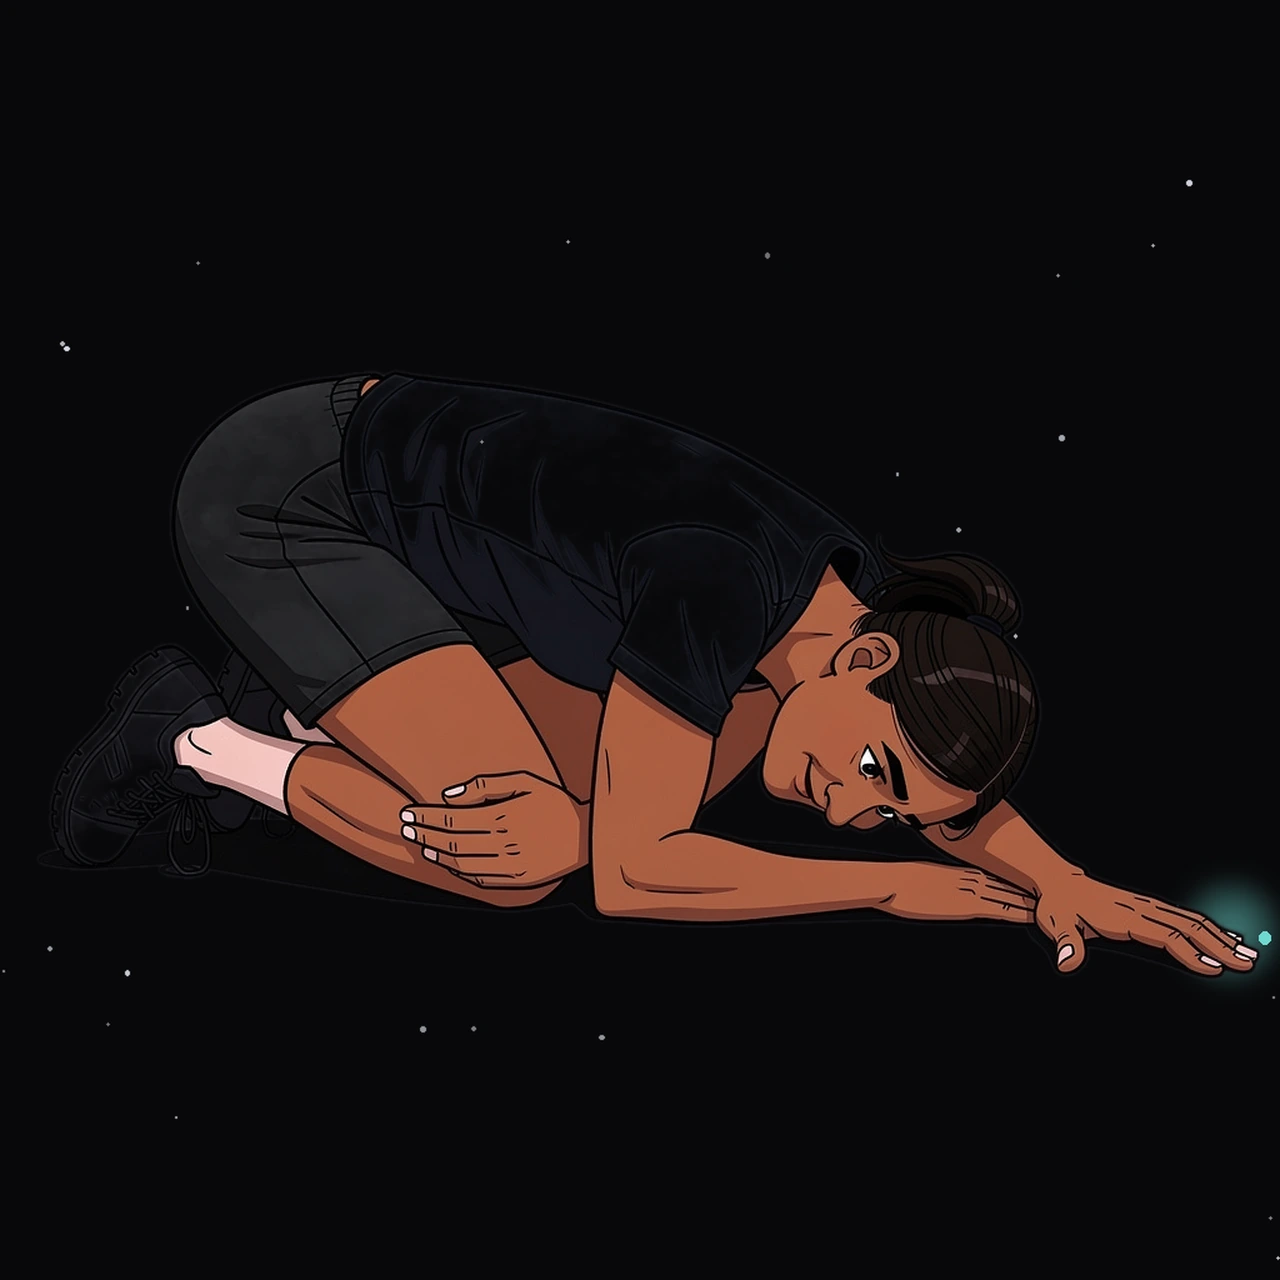
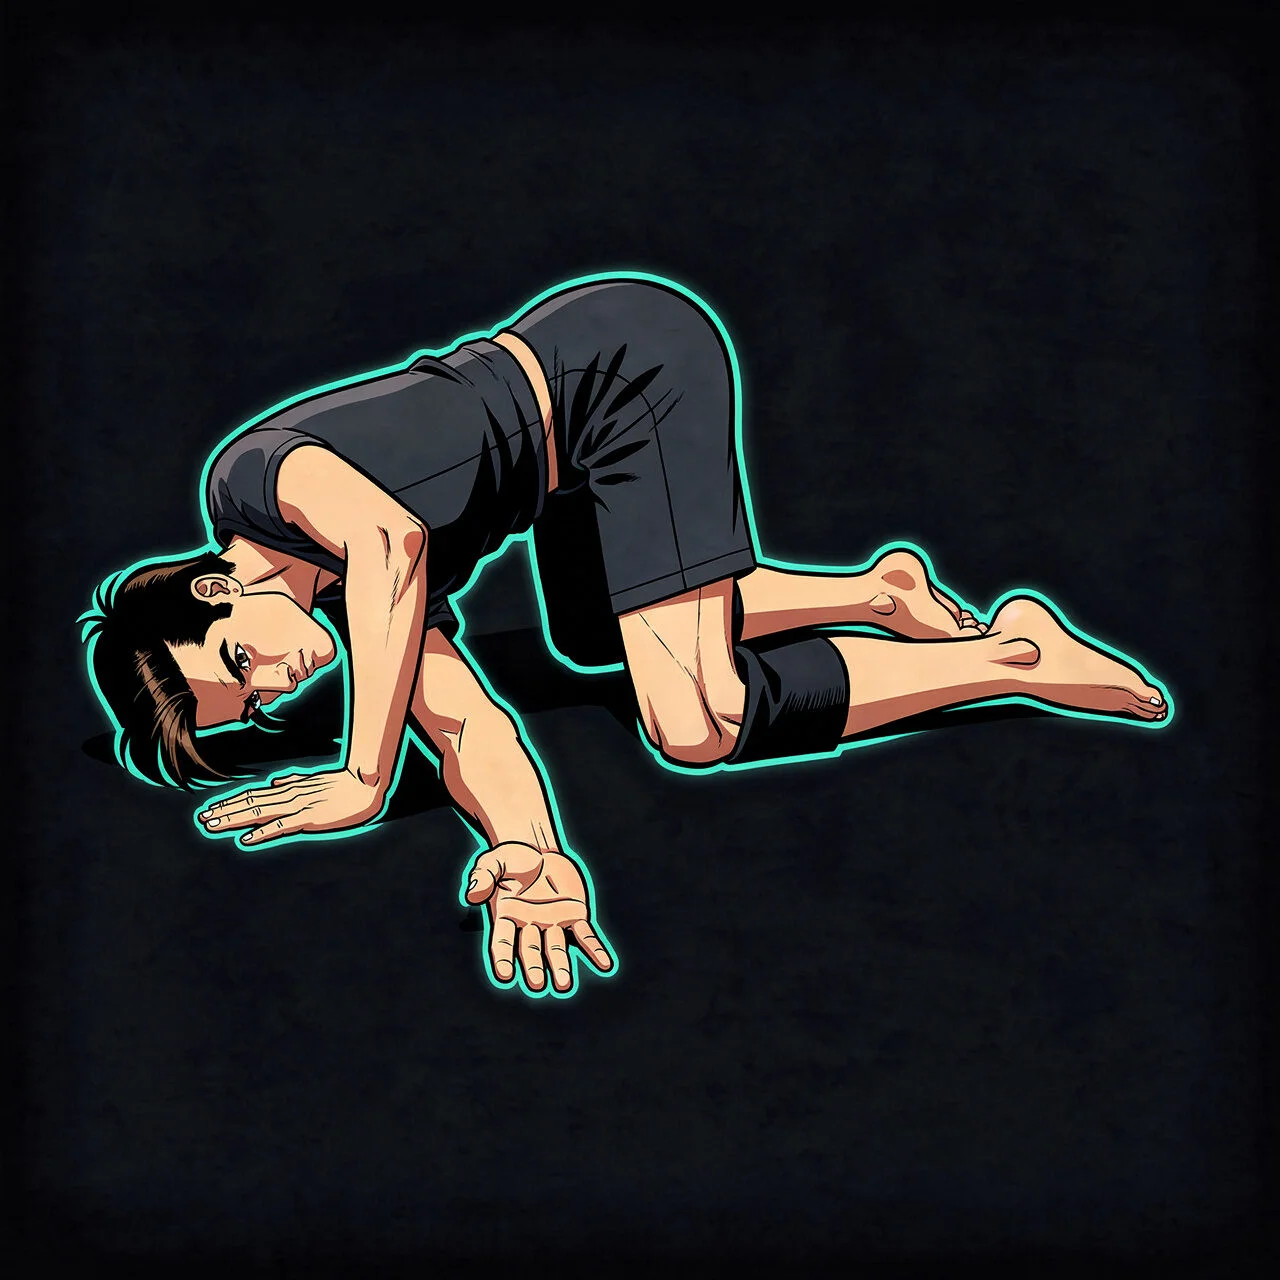
Draw thread the needle from a photograph, and send the references the loop chose
The old picture had three arms. The new one is redrawn from a photograph of the maintainer cut
out of its background (rembg), face blurred, sent with an edit prompt that keeps the body:
FLUX copies a photo's pose almost exactly, which no mannequin managed for a threaded arm.

Fixes a bug that made several earlier runs meaningless: a stale `reference: False` on
thread_the_needle and russian_twist won over every reference made for them later, so their 3D
and photo attempts went out as text only, and the judges blamed references the model never saw.
A reference made for the slug on purpose now comes first, and each run prints what it sent.

Changed region(s): [[0.0625, 0.1875, 1.0, 0.8125]]

diff --git a/scripts/art-loop.py b/scripts/art-loop.py
@@ -63,6 +63,19 @@ TRACED_PREAMBLE = (
     "in it that the description below does not name is left out."
 )
 
+# For a real photo cut out of its background (`<slug>.cutout.png`, face blurred): colour and
+# volume say which arm passes under which, where the edge tracing of the same photo read as a
+# plain all-fours (thread_the_needle, a8).
+# Phrased as an edit of image 1, not as a new picture "in this pose": asked to draw from it, FLUX
+# drew its favourite all-fours twice (a8, a9); asked to redraw it, it keeps the body's geometry.
+PHOTO_PREAMBLE = (
+    "Redraw image 1 as an illustration. Keep the person's body exactly as it is in image 1: "
+    "every limb in the same place, the same joint angles, the same parts touching the floor, the "
+    "same camera angle and framing. Change only how it is drawn and dressed: replace the "
+    "photograph with the style described below, replace the clothes, remove the glasses, the "
+    "watch and the patch of floor, and give the person a new face."
+)
+
 # For a 3D mannequin render (see `render3d`): volume and a cast shadow carry the depth that a flat
 # stick figure lost on every floor pose.
 PREAMBLE3D = (
@@ -614,10 +627,16 @@ def candidates(slug: str, attempt: int, pose_file: str | None) -> None:
     # A traced photo wins over the mannequin. A pose may also opt out: a reference the model
     # misreads is worse than none (thread_the_needle, before it had a photo).
     traced = REFS / f"{slug}.traced.png"
-    if POSES.get(slug, {}).get("reference") is False:
-        refs, preamble = (), ""
+    cutout = REFS / f"{slug}.cutout.png"
+    # A reference made for this slug on purpose (a photo, a 3D pose) wins over the old opt-out,
+    # which only meant "the traced drawing carries the fault". The opt-out silently swallowed
+    # both for thread_the_needle and russian_twist: six attempts went out text-only.
+    if cutout.exists():
+        refs, preamble = (cutout,), PHOTO_PREAMBLE
     elif slug in POSES3D:
         refs, preamble = (render3d(slug),), PREAMBLE3D
+    elif POSES.get(slug, {}).get("reference") is False:
+        refs, preamble = (), ""
     elif traced.exists():
         refs, preamble = (traced,), TRACED_PREAMBLE
     elif "torso" in POSES[slug]:
@@ -653,7 +672,8 @@ def candidates(slug: str, attempt: int, pose_file: str | None) -> None:
          "400x400+6+6", "-pointsize", "20", str(sheet)],
         check=True,
     )
-    print(json.dumps({"sheet": str(sheet), "candidates": list(map(str, made)),
+    print(json.dumps({"sheet": str(sheet), "references": list(map(str, refs)),
+                      "candidates": list(map(str, made)),
                       "checklist": POSES.get(slug, {}).get("checklist", [])}, indent=2))
 
 
@@ -701,14 +721,17 @@ def accept(slug: str, candidate: str) -> None:
     # A pose traced from someone else's work makes the picture a derived work: say whose, under
     # which licence, the way the Everkinetic-derived entries already do.
     for ref in entry.get("references", []):
-        if not ref["path"].endswith(".traced.png"):
+        if not ref["path"].endswith((".traced.png", ".cutout.png")):
             continue  # a mannequin is ours
-        source = ROOT / ref["path"].replace(".traced.png", ".source.json")
+        source = ROOT / ref["path"].replace(".traced.png", ".source.json").replace(
+            ".cutout.png", ".source.json"
+        )
         if source.is_file():
             credit = json.loads(source.read_text(encoding="utf-8"))
             entry["derived_from"] = credit
+            how = "taken from a photograph by" if ref["path"].endswith(".cutout.png") else "traced from"
             entry["licence"] = (
-                f"derived work: pose traced from {credit['author']} ({credit['licence']}), "
+                f"derived work: pose {how} {credit['author']} ({credit['licence']}), "
                 "redistributed under CC BY-SA 4.0"
             )
     record(rel, entry)

diff --git a/docs/content/missing-image.md b/docs/content/missing-image.md
@@ -718,9 +718,18 @@ What the 18-exercise run taught, beyond §8:
   top, "ground" a lit floor. "Knee-length shorts" is ignored, so tights appear unless asked against.
 - **Moderation:** "hang", "neck", "throat" with a figure under a bar, and "buttocks", are refused.
 
+**Two more references (2026-10-04).** `scripts/pose3d.py` renders a capsule mannequin in
+headless Blender: volume and a cast shadow say "lying" or "knees on the floor" where a flat stick
+figure could not (`knee_pushup` shipped from it). For what a mannequin cannot carry, a threaded
+arm or a twist, a photograph of the maintainer cut out of its background with `rembg`, face
+blurred, and sent with an *edit* prompt ("redraw image 1, keep the body") is copied almost
+exactly (`thread_the_needle` shipped from it). Because it is copied exactly, the photo must show
+the final position, from the side, with no glasses, watch or long trousers: each of those came
+back in the drawing.
+
 Still open, each needing a photograph of a real person in the pose (no freely licensed one
-exists): `windshield_wipers`, `thread_the_needle`, `russian_twist`, `hollow_body_hold`,
-`pike_pushup`, `knee_pushup`, `skater_hop`, `towel_door_row`, `dragon_flag`, `chin_up` (the grip),
+exists): `windshield_wipers`, `russian_twist`, `hollow_body_hold`,
+`pike_pushup`, `skater_hop`, `towel_door_row`, `dragon_flag`, `chin_up` (the grip),
 plus the never-attempted `pigeon_pose`, `cobra_stretch`, `toes_to_bar`, `table_row`.
 
 The original findings, confirmed by looking, in order of how badly they mislead:
